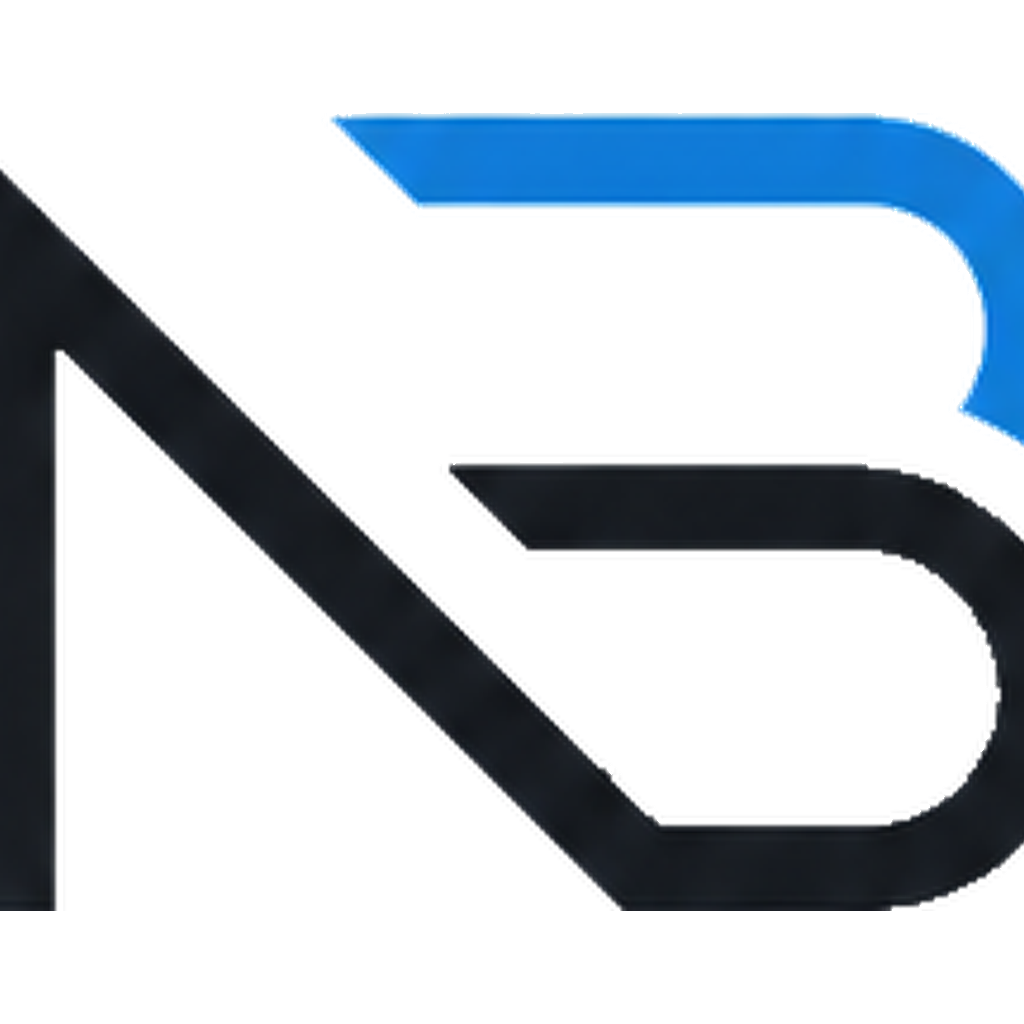
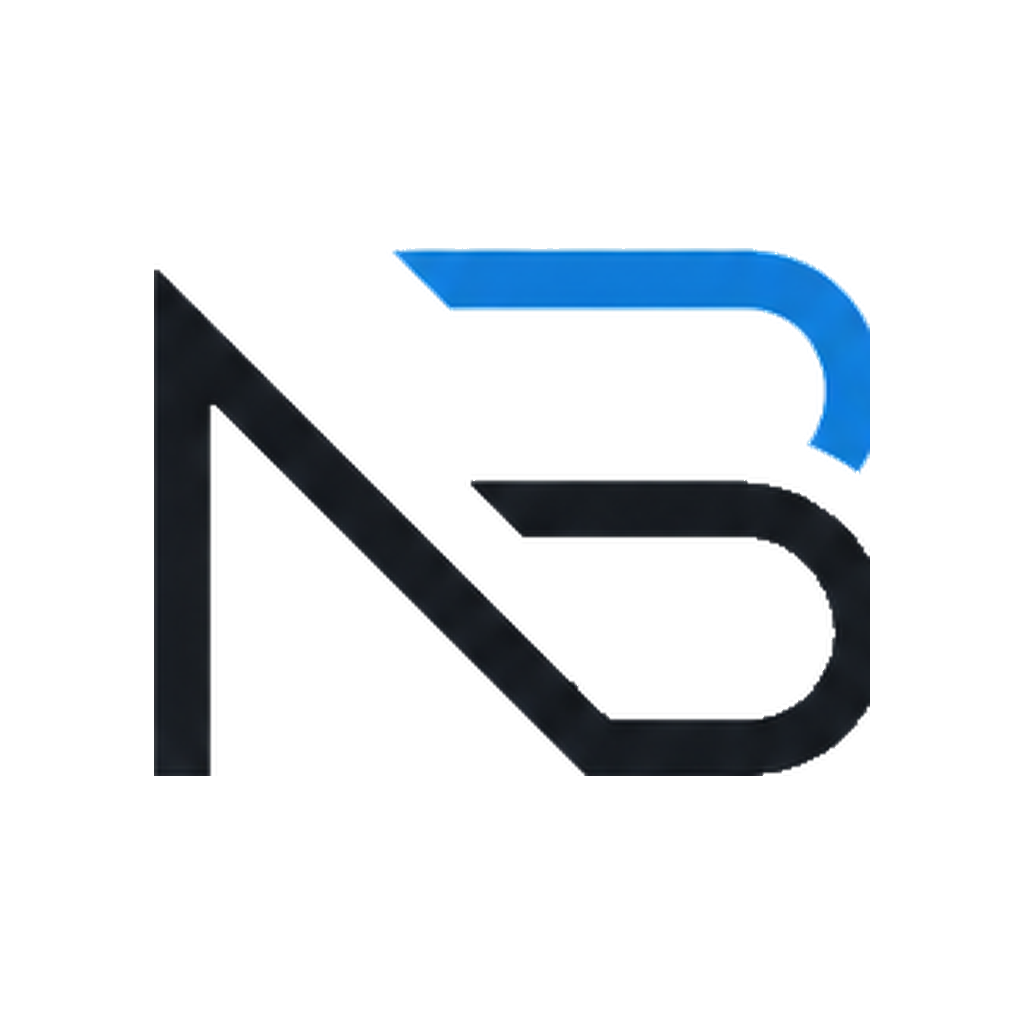
Add padding and shrink Three Promises monograms

diff --git a/src/components/home/HomeSections.tsx b/src/components/home/HomeSections.tsx
@@ -33,7 +33,7 @@ export function HomePromises() {
       <div className="max-w-6xl mx-auto">
         <div className="text-center max-w-2xl mx-auto mb-10 sm:mb-14">
           <div className="flex justify-center mb-5">
-            <NbMonogram className="h-12 sm:h-14 w-auto" />
+            <NbMonogram className="h-10 sm:h-12 w-auto" />
           </div>
           <SectionLabel>Why No BS</SectionLabel>
           <h2 className="text-2xl sm:text-3xl font-bold text-neutral-950">
@@ -46,7 +46,7 @@ export function HomePromises() {
               key={item.title}
               className="bg-surface-light border border-border rounded-2xl p-6 sm:p-7"
             >
-              <NbMonogram className="h-9 w-auto mb-4" />
+              <NbMonogram className="h-8 w-auto mb-4" />
               <h3 className="font-bold text-lg text-neutral-950 mb-2">{item.title}</h3>
               <p className="text-neutral-600 text-sm leading-relaxed">{item.description}</p>
             </div>
